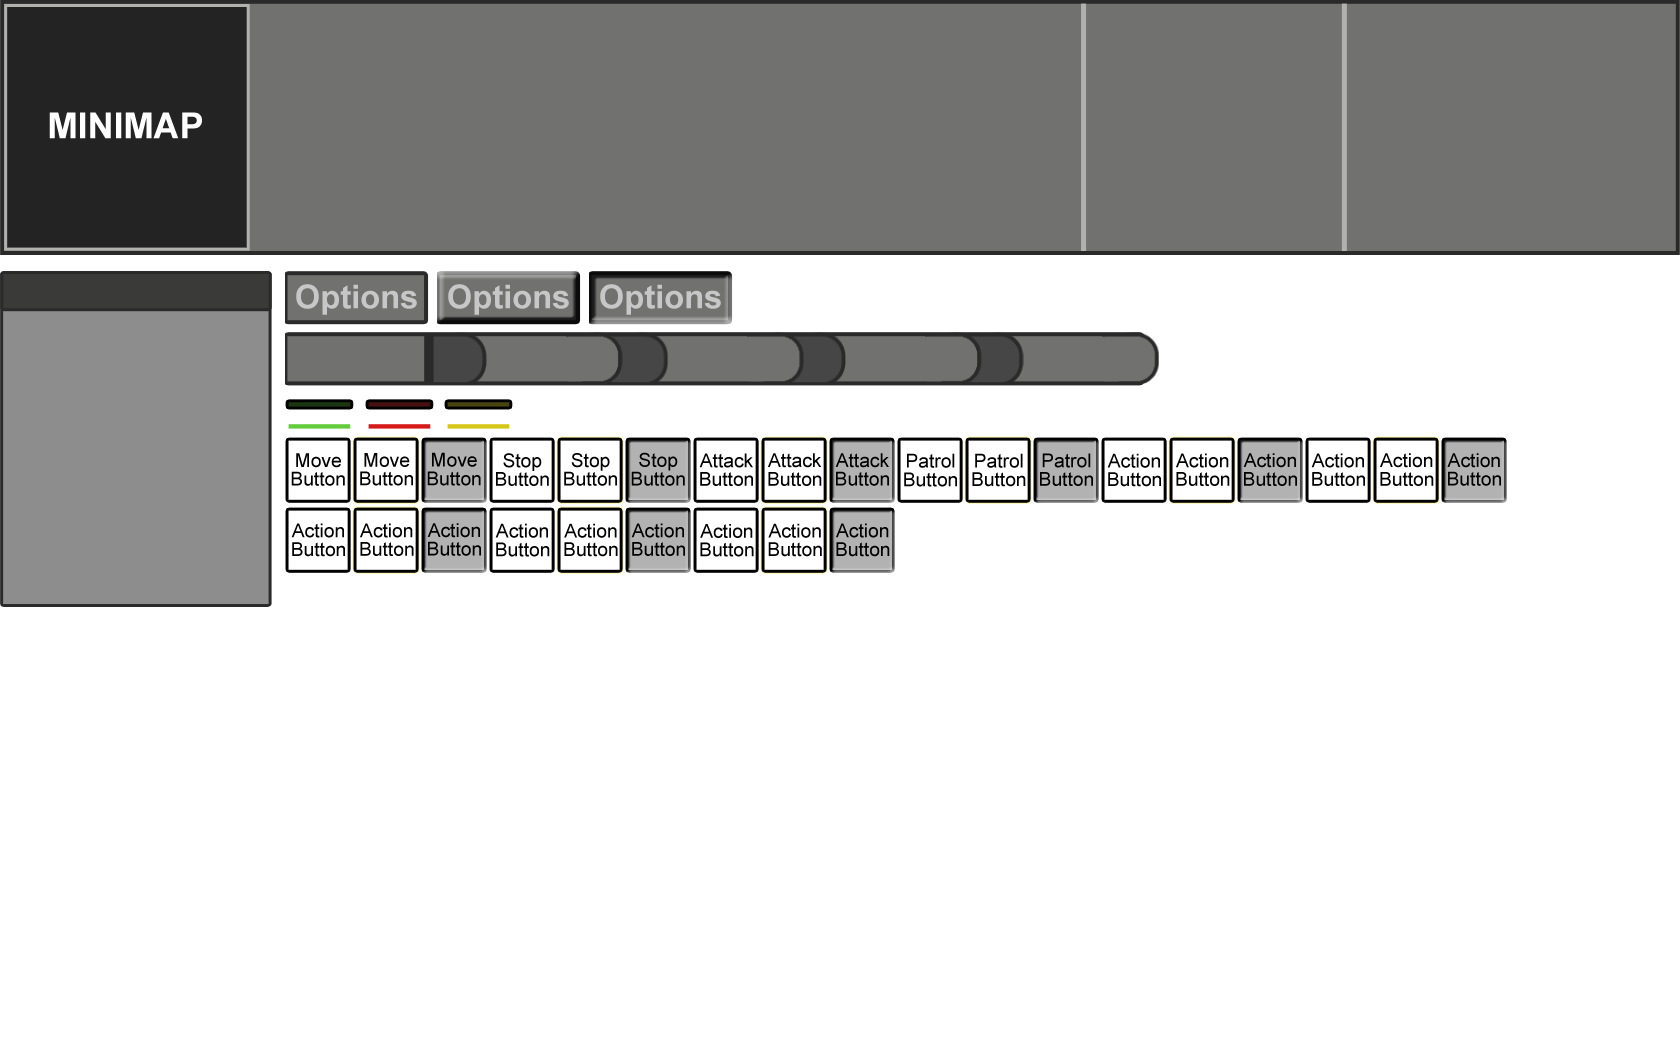
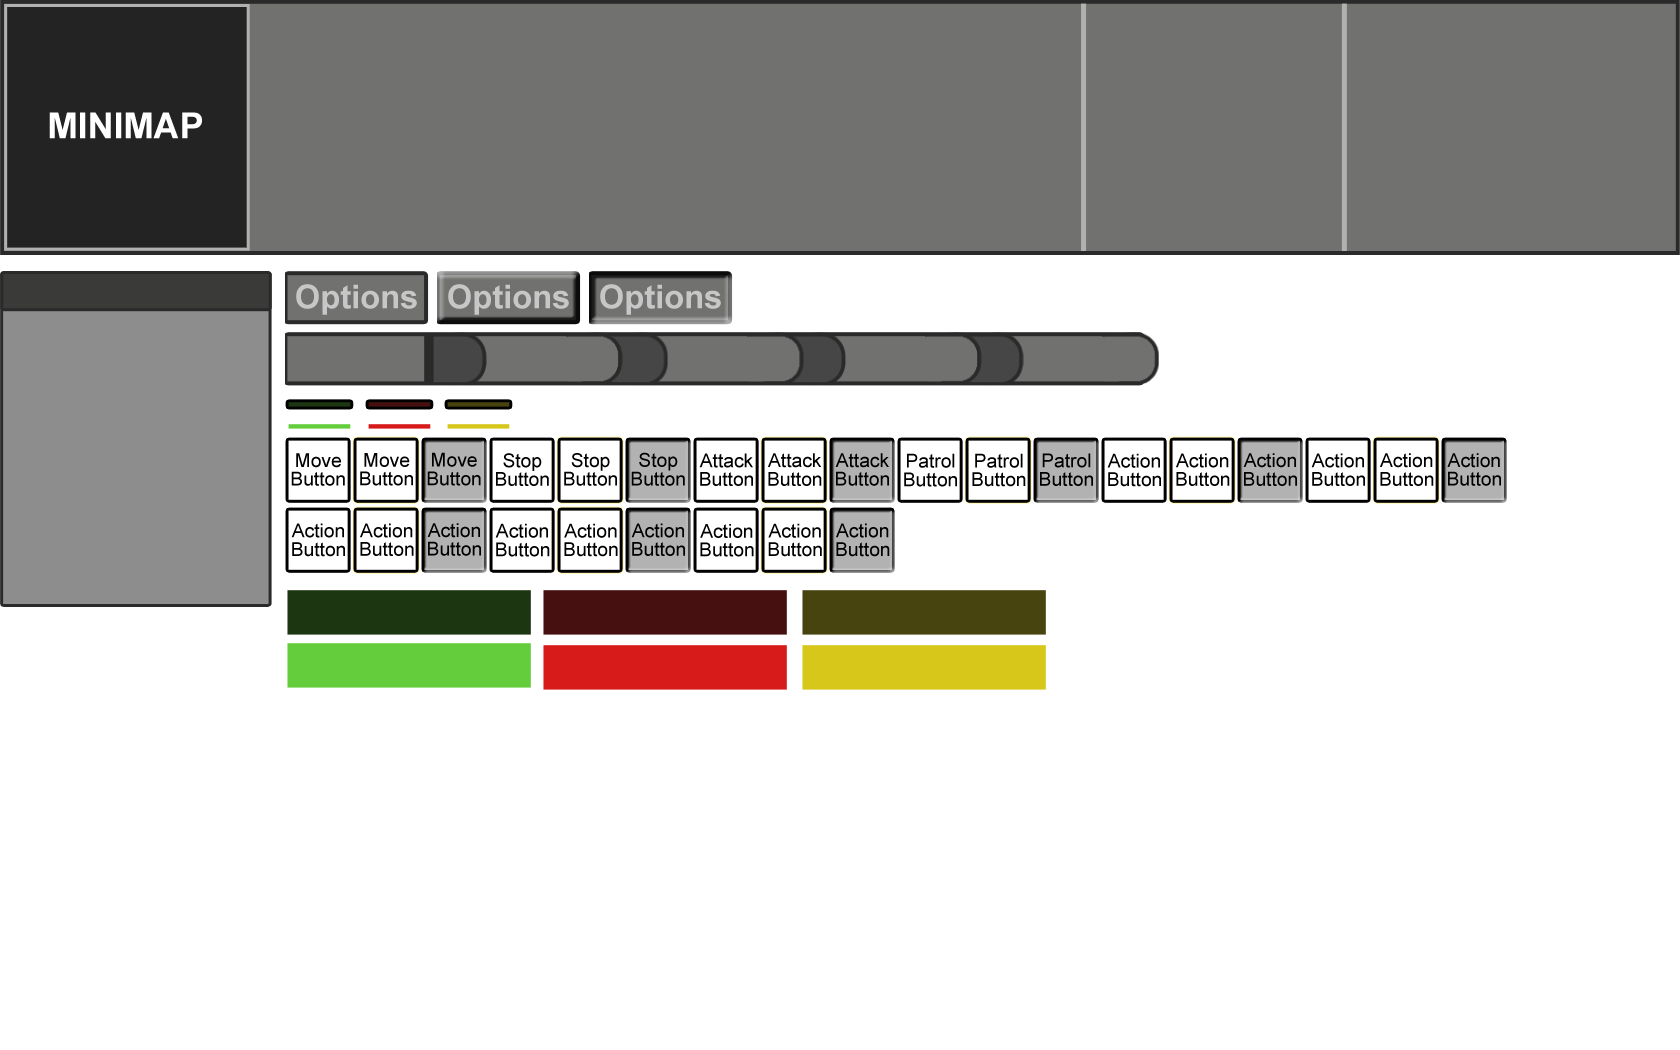
added life bars on menu

Changed region(s): [[0.1548, 0.5486, 0.619, 0.6705]]

diff --git a/Motor2D/UI_LifeBar.cpp b/Motor2D/UI_LifeBar.cpp
@@ -4,11 +4,8 @@
 #include "Building.h"
 #include "UI_ProgressBar.h"
 
-LifeBar::LifeBar(Entity * entity, SDL_Texture* texture): UI_element(0,0,PROGRESSBAR, {0,0,109,14}, nullptr)
+LifeBar::LifeBar(Entity * entity, SDL_Texture* texture) : UI_element(0, 0, PROGRESSBAR, { 0,0,109,14 }, nullptr)
 {
-	SDL_Rect empty = { 0,0,0,0 };
-	SDL_Rect full = { 0,0,0,0 };
-
 	switch (entity->entity_type)
 	{
 	case UNIT:
@@ -23,10 +20,36 @@ LifeBar::LifeBar(Entity * entity, SDL_Texture* texture): UI_element(0,0,PROGRESS
 		offset.x = ((Building*)entity)->section->w / 2 - bar->section.w / 2;
 		break;
 	}
-	
 	offset.y = -(5 + bar->section.h);
 
 	this->entity = entity;
+	this->inMenu = false;
+}
+
+LifeBar::LifeBar(Entity * entity, SDL_Texture * texture, int x, int y)
+{
+	float life = 1.0f;
+	int max_value = 100;
+	switch (entity->entity_type)
+	{
+	case UNIT:
+		max_value = ((Unit*)entity)->max_HP;
+		life = ((Unit*)entity)->current_HP / max_value;
+		break;
+	case BUILDING:
+		max_value = ((Building*)entity)->max_HP;
+		life = ((Building*)entity)->current_HP / max_value;
+		break;
+	}
+	if (life >= 0.5)
+		bar = new ProgressBar(x, y, texture, App->gui->GetLifeBarRect("mG_empty"), App->gui->GetLifeBarRect("mG_full"), { 0,0,0,0 }, max_value, callback);
+	else if (life >= 0.2)
+		bar = new ProgressBar(x, y, texture, App->gui->GetLifeBarRect("mR_empty"), App->gui->GetLifeBarRect("mR_full"), { 0,0,0,0 }, max_value, callback);
+	else
+		bar = new ProgressBar(x, y, texture, App->gui->GetLifeBarRect("mY_empty"), App->gui->GetLifeBarRect("mY_full"), { 0,0,0,0 }, max_value, callback);
+
+	this->entity = entity;
+	this->inMenu = true;
 }
 
 void LifeBar::BlitElement(bool use_camera)
@@ -40,11 +63,30 @@ void LifeBar::BlitElement(bool use_camera)
 		bar->enterCurrentValue(((Building*)entity)->current_HP);
 		break;
 	}
-	
-	if (bar->progress < 1.1f)
+	if (inMenu)
+	{
+		if (bar->progress >= 0.5)
+		{
+			bar->section = App->gui->GetLifeBarRect("mG_empty");
+			bar->full = App->gui->GetLifeBarRect("mG_full");
+		}
+		else if (bar->progress >= 0.2)
+		{
+			bar->section = App->gui->GetLifeBarRect("mY_empty");
+			bar->full = App->gui->GetLifeBarRect("mY_full");
+		}
+		else
+		{
+			bar->section = App->gui->GetLifeBarRect("mR_empty");
+			bar->full = App->gui->GetLifeBarRect("mR_full");
+		}
+
+		bar->BlitElement(false);
+	}
+	else if (bar->progress < 1.1f)
 	{
 		bar->localPosition = { (int)entity->position.x+offset.x, (int)entity->position.y+offset.y };
-
+	
 		bar->BlitElement(true);
 	}
 }

diff --git a/Motor2D/j1Gui.cpp b/Motor2D/j1Gui.cpp
@@ -568,6 +568,9 @@ IngameMenu* j1Gui::createIngameMenu(pugi::xml_node node, j1Module * callback)
 	int icons_offsetX = node.child("icons").attribute("offsetX").as_int();
 	int icons_offsetY = node.child("icons").attribute("offsetY").as_int();
 
+	int lifeBars_offsetX = node.child("lifeBars").attribute("offsetX").as_int();
+	int lifeBars_offsetY = node.child("lifeBars").attribute("offsetY").as_int();
+
 	int stats_posX = node.child("stats").attribute("x").as_int();
 	int stats_posY = node.child("stats").attribute("y").as_int();
 
@@ -576,7 +579,7 @@ IngameMenu* j1Gui::createIngameMenu(pugi::xml_node node, j1Module * callback)
 	int buttons_offsetX = node.child("buttons").attribute("offsetX").as_int();
 	int buttons_offsetY = node.child("buttons").attribute("offsetY").as_int();
 
-	IngameMenu* ret = new IngameMenu(texture, icon_atlas, x, y, section, minimap_posX, minimap_posY, firstIcon_posX, firstIcon_posY, icons_offsetX, icons_offsetY, stats_posX, stats_posY, firstButton_posX, firstButton_posY, buttons_offsetX, buttons_offsetY, callback);
+	IngameMenu* ret = new IngameMenu(texture, icon_atlas, x, y, section, minimap_posX, minimap_posY, firstIcon_posX, firstIcon_posY, icons_offsetX, icons_offsetY, lifeBars_offsetX, lifeBars_offsetY, stats_posX, stats_posY, firstButton_posX, firstButton_posY, buttons_offsetX, buttons_offsetY, callback);
 
 	ret->setDragable(node.child("draggable").attribute("horizontal").as_bool(), node.child("draggable").attribute("vertical").as_bool());
 	ret->interactive = node.child("interactive").attribute("value").as_bool();
@@ -598,7 +601,17 @@ void j1Gui::LoadDB(pugi::xml_node node)
 	pugi::xml_node lifebar;
 	pugi::xml_node rect;
 
-	for (lifebar = node.child("LifeBars").first_child(); lifebar; lifebar = lifebar.next_sibling())
+	for (lifebar = node.child("LifeBars").child("in-game").first_child(); lifebar; lifebar = lifebar.next_sibling())
+	{
+		for (rect = lifebar.first_child(); rect; rect = rect.next_sibling())
+		{
+			SDL_Rect section = { rect.attribute("x").as_int(0), rect.attribute("y").as_int(0) , rect.attribute("w").as_int(0) , rect.attribute("h").as_int(0) };
+			std::string tag = rect.attribute("tag").as_string();
+
+			LifeBarRect.insert(std::pair<std::string, SDL_Rect>(tag, section));
+		}
+	}
+	for (lifebar = node.child("LifeBars").child("menu").first_child(); lifebar; lifebar = lifebar.next_sibling())
 	{
 		for (rect = lifebar.first_child(); rect; rect = rect.next_sibling())
 		{

diff --git a/Motor2D/UI_IngameMenu.cpp b/Motor2D/UI_IngameMenu.cpp
@@ -7,11 +7,13 @@
 #include "UI_Text.h"
 #include "UI_Button.h"
 #include "Entity.h"
+#include "UI_LifeBar.h"
 #include "j1EntityController.h"
 
-IngameMenu::IngameMenu(SDL_Texture* atlas, SDL_Texture* icon_atlas, int x, int y, SDL_Rect section, int minimap_posX, int minimap_posY, int firstIcon_posX, int firstIcon_posY, int icons_offsetX, int icons_offsetY, int stats_posX, int stats_posY, int firstButton_posX, int firstButton_posY, int buttons_offsetX, int buttons_offsetY, j1Module * callback) : UI_element(x, y, element_type::MENU, section, callback, atlas),
+IngameMenu::IngameMenu(SDL_Texture* atlas, SDL_Texture* icon_atlas, int x, int y, SDL_Rect section, int minimap_posX, int minimap_posY, int firstIcon_posX, int firstIcon_posY, int icons_offsetX, int icons_offsetY, int lifeBars_offsetX, int lifeBars_offsetY, int stats_posX, int stats_posY, int firstButton_posX, int firstButton_posY, int buttons_offsetX, int buttons_offsetY, j1Module * callback) : UI_element(x, y, element_type::MENU, section, callback, atlas),
 firstIcon_pos({firstIcon_posX, firstIcon_posY}),
 icons_offset({icons_offsetX, icons_offsetY}),
+lifeBars_offset({lifeBars_offsetX, lifeBars_offsetY}),
 stats_pos({stats_posX, stats_posY}),
 firstButton_pos({firstButton_posX, firstButton_posY}),
 buttons_offset({buttons_offsetX, buttons_offsetY}),
@@ -41,7 +43,7 @@ void IngameMenu::BlitElement(bool use_camera)
 	BROFILER_CATEGORY("In-game Menu Blit", Profiler::Color::Beige);
 
 	//update minimap
-	//update health bars
+	//update icons and life bars
 	if (App->entitycontroller->newSelection)
 	{
 		int counterX = 0;
@@ -51,6 +53,7 @@ void IngameMenu::BlitElement(bool use_camera)
 		{
 			troopsIcons.push_back(new Image(icon_atlas, firstIcon_pos.x + icons_offset.x*counterX, firstIcon_pos.y + icons_offset.y*counterY, App->gui->GetIconRect((*it_e)), callback));
 			(*troopsIcons.rbegin())->setBorder(true, White, 4);
+			lifeBars.push_back(new LifeBar((*it_e), texture, firstIcon_pos.x + icons_offset.x*counterX + lifeBars_offset.x, firstIcon_pos.y + icons_offset.y*counterY + lifeBars_offset.y));
 			counterY++;
 			if (counterY == 3)
 			{
@@ -68,6 +71,10 @@ void IngameMenu::BlitElement(bool use_camera)
 	{
 		(*it_i)->BlitElement(use_camera);
 	}
-	//Blit health bars
+	//Blit life bars
+	for (std::list<LifeBar*>::iterator it_l = lifeBars.begin(); it_l != lifeBars.end(); it_l++)
+	{
+		(*it_l)->BlitElement(use_camera);
+	}
 	//Blit action butons
 }

diff --git a/Motor2D/UI_IngameMenu.h b/Motor2D/UI_IngameMenu.h
@@ -6,7 +6,7 @@
 class Minimap;
 class Window;
 class Image;
-class HealthBar;
+class LifeBar;
 class Button;
 
 class IngameMenu : public UI_element
@@ -16,7 +16,7 @@ public:
 	IngameMenu()
 	{}
 
-	IngameMenu(SDL_Texture* atlas, SDL_Texture* icon_atlas, int x, int y, SDL_Rect section, int minimap_posX, int minimap_posY, int firstIcon_posX, int firstIcon_posY, int icons_offsetX, int icons_offsetY, int stats_posX, int stats_posY, int firstButton_posX, int firstButton_posY, int buttons_offsetX, int buttons_offsetY, j1Module* callback);
+	IngameMenu(SDL_Texture* atlas, SDL_Texture* icon_atlas, int x, int y, SDL_Rect section, int minimap_posX, int minimap_posY, int firstIcon_posX, int firstIcon_posY, int icons_offsetX, int icons_offsetY, int lifeBars_offsetX, int lifeBars_offsetY, int stats_posX, int stats_posY, int firstButton_posX, int firstButton_posY, int buttons_offsetX, int buttons_offsetY, j1Module* callback);
 
 	~IngameMenu()
 	{}
@@ -34,11 +34,12 @@ public:
 	Window* window = nullptr;
 	iPoint firstIcon_pos;
 	iPoint icons_offset;
+	iPoint lifeBars_offset;
 	iPoint stats_pos;
 	iPoint firstButton_pos;
 	iPoint buttons_offset;
 	std::list<Image*> troopsIcons; //Being created/destroyed
-	std::list<HealthBar*> healthBars; //Being created/destroyed
+	std::list<LifeBar*> lifeBars; //Being created/destroyed
 	std::list<Button*> actionButtons; //Constant but unactive
 
 };

diff --git a/Motor2D/UI_LifeBar.h b/Motor2D/UI_LifeBar.h
@@ -15,6 +15,8 @@ public:
 
 	LifeBar(Entity* entity, SDL_Texture* texture);
 
+	LifeBar(Entity* entity, SDL_Texture* texture, int x, int y);
+
 	~LifeBar()
 	{	}
 
@@ -25,6 +27,7 @@ public:
 	ProgressBar* bar;
 	Entity* entity;
 	iPoint offset;
+	bool inMenu;
 
 };
 
